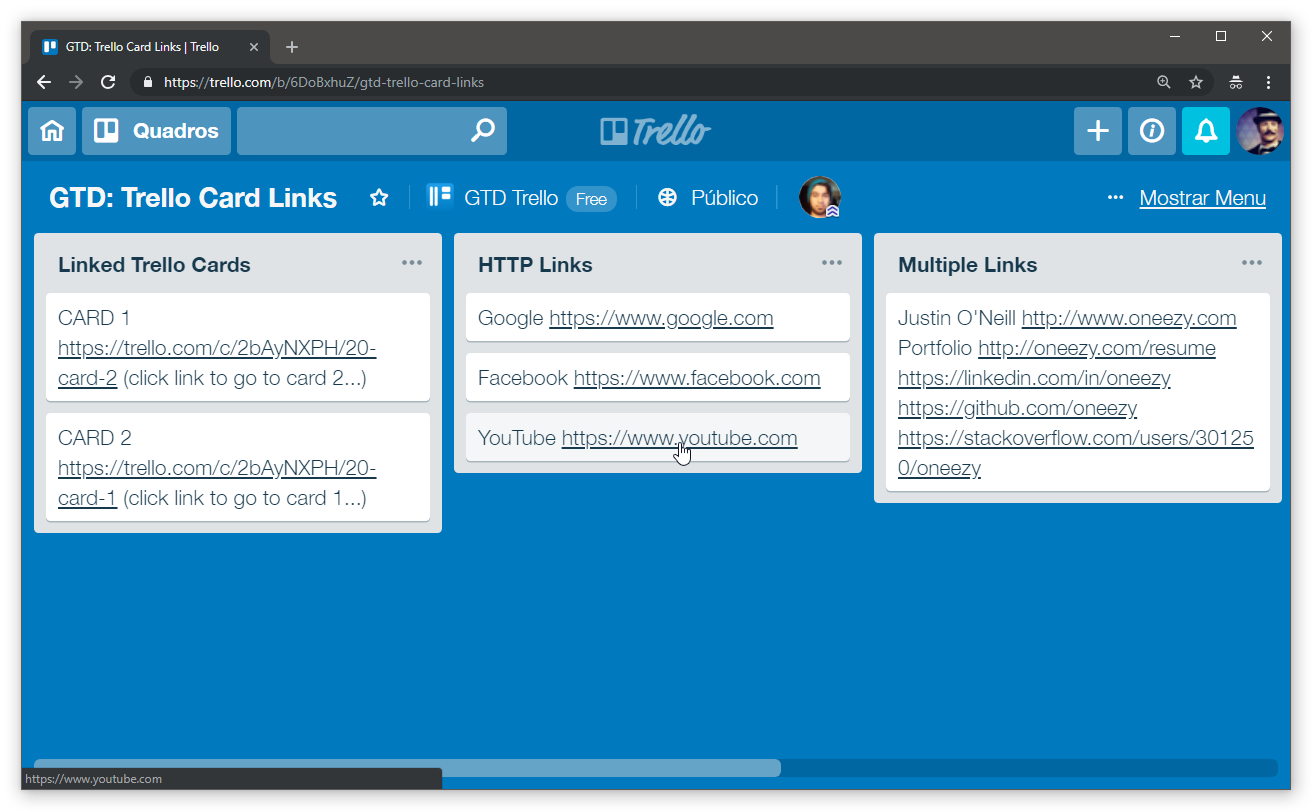
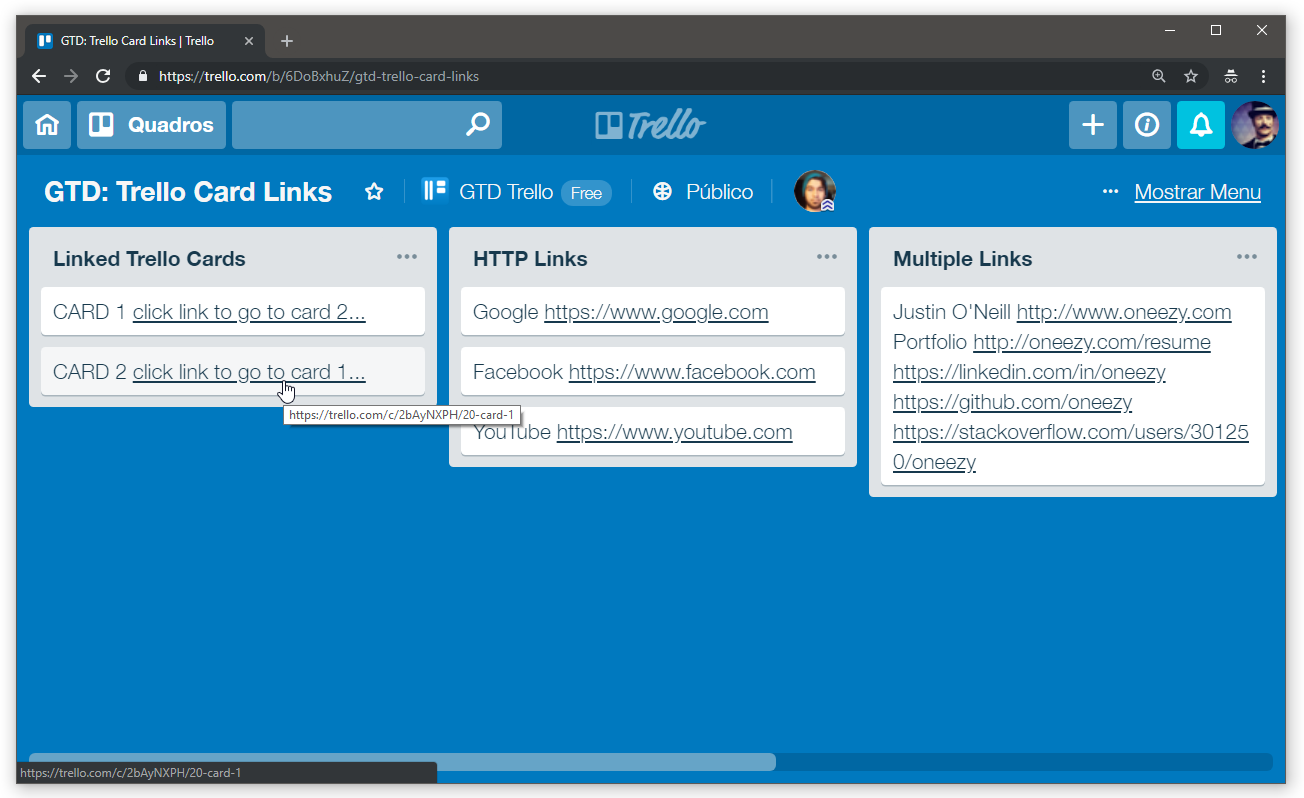
up: new version (2.0)

Changed region(s): [[0.0, 0.0, 1.0, 0.9925], [0.3681, 0.3609, 0.5828, 0.4211], [0.3681, 0.3008, 0.4601, 0.3609]]

diff --git a/Trello_Cards_Hyperlinks/Trello_Cards_Hyperlinks.user.js b/Trello_Cards_Hyperlinks/Trello_Cards_Hyperlinks.user.js
@@ -3,7 +3,7 @@
 // @namespace    https://github.com/micalevisk/GM_scripts
 // @supportURL   https://github.com/micalevisk/GM_scripts/tree/master/Trello_Cards_Hyperlinks
 // @updateURL    https://openuserjs.org/meta/micalevisk/Trello_Cards_Hyperlinks.meta.js
-// @version      1.2
+// @version      2.0
 // @description  Adds support for clickable hyperlinks in your Trello card titles.
 // @author       Micael Levi
 // @copyright    2019, micalevisk (https://openuserjs.org//users/micalevisk)
@@ -14,46 +14,69 @@
 // ==/UserScript==
 
 (function($) {
-  console.debug('------ Trello Cards Hyperlinks ------ ');
 
-  const linkRegExp = /\b((https?:\/\/(www\.)?)|(www\.))[-a-z0-9@:%._\+~#=]{2,256}\.[a-z]{2,6}\b([-a-z0-9@:%_\+.~#?&\/\/=]*)/ig;
+  // Visualize this expression here: https://bit.ly/2FpWz2V
+  const REGEX_URL = /\b(?:(https?:\/\/(?:www\.)?)|(www\.))([-a-z0-9@:%._\+~#=]{2,256}\.[a-z]{2,6}\b(?:[-a-z0-9@:%_\+.~#?&\/\/=]*))/ig;
+  const REGEX_LINK_LABEL = /^\s+\(([^\)]+)\)/;
 
   window.document.addEventListener('load', dispatchRender, true);
   window.document.addEventListener('blur', dispatchRender, true);
 
-  /* // Alternativa para disparar a atualização dos cards
-  const boardCanvasElement = document.querySelector('.board-canvas');
-  const observer = new MutationObserver((mutations) => {
-    if ( $(mutations[0].target).hasClass('list-card') ) {
-      // console.debug(mutations[0]);
-      dispatchRender();
-    }
-  });
-
-  observer.observe(boardCanvasElement, {
-    attributes: true,
-    subtree: true,
-    //     childList: true,
-    //     characterData: true,
-  });
-  */
-
   function dispatchRender() {
     window.setTimeout(renderCardLinks, 0);
+    // requestAnimationFrame(renderCardLinks);
+  }
+
+  const makeLinkMarkup = (href, title, label = title) => `<a class='tcards-title-link' onclick='event.stopPropagation();' href='${href}' title='${title}' target='_blank' rel='noopener'>${label}</a>`;
+
+  function parseNode(nodeElement, placeholdersLookupRef) {
+    if (nodeElement.nodeType !== 3) return; // only text nodes
+
+    const text = nodeElement.data;
+    const textWithPlaceholders = text.replace(REGEX_URL, (match, protocol, www, rest, startIndex) => {
+      const url = (protocol || '//' + www) + rest;
+      const placeholder = `§${Date.now() - startIndex}§`;
+
+      placeholdersLookupRef.push({
+        placeholder,
+        makeNewMarkup: makeLinkMarkup.bind(null, url, match) // Using partial application
+      });
+
+      return placeholder;
+    });
+
+    nodeElement.textContent = textWithPlaceholders;
   }
 
   function updateNode(nodeElement) {
-    // if (!nodeElement) return;
-    const innerHTML = $(nodeElement).html();
-    const innerHTMLWithLinks = innerHTML.replace(linkRegExp, url =>
-                                                 `<a class='tcards-title-link' onclick='event.stopPropagation();' href='${url.startsWith('http') ? url : '//' + url}' target='_blank' rel='noopener'>${url}</a>`);
-    if (innerHTML !== innerHTMLWithLinks) $(nodeElement).html(innerHTMLWithLinks);
+    const placeholdersLookup = [];
+
+    for (const child of nodeElement.childNodes) parseNode(child, placeholdersLookup);
+    if (!placeholdersLookup.length) return;
+
+    nodeElement.innerHTML = placeholdersLookup.reduce(
+      (withLinks, {placeholder, makeNewMarkup}) => {
+
+        const placeholderStartIdx = withLinks.search(placeholder);
+        const contentAfterPlaceholder = withLinks.substr(placeholderStartIdx + placeholder.length);
+
+        const matchLabel = contentAfterPlaceholder.match(REGEX_LINK_LABEL);
+        if (matchLabel) {
+          return withLinks.substr(0, placeholderStartIdx) +
+                 makeNewMarkup(matchLabel[1]) + // Usando a label definida pelo usuário
+                 withLinks.substr(placeholderStartIdx + placeholder.length + matchLabel[0].length);
+        }
+
+        return withLinks.substr(0, placeholderStartIdx) +
+               makeNewMarkup() + // Usando a própria URL como label
+               contentAfterPlaceholder;
+
+      },
+      nodeElement.innerHTML);
   }
 
   function renderCardLinks() {
-    $('.list-card-title').each((_, e) => updateNode(e));
-    // Resolver o problema do `.replace` sobre um link ja mapeado (parseado)
-    $('.list-card-title').find('a.tcards-title-link:empty').remove();
+    $('.list-card-title:not( :has(> .tcards-title-link) )').each((_, e) => updateNode(e));
   }
 
 })(jQuery || unsafeWindow.jQuery);
